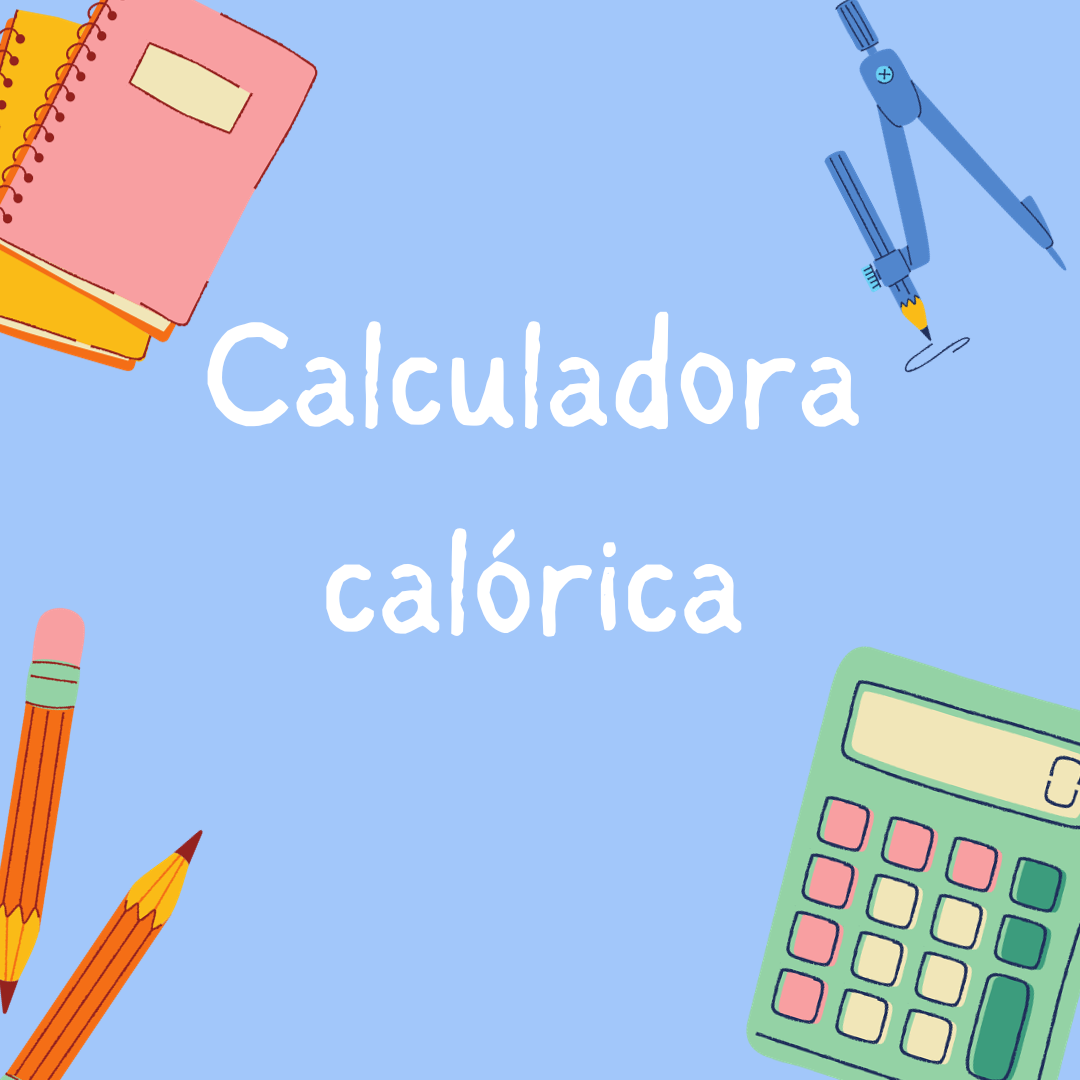
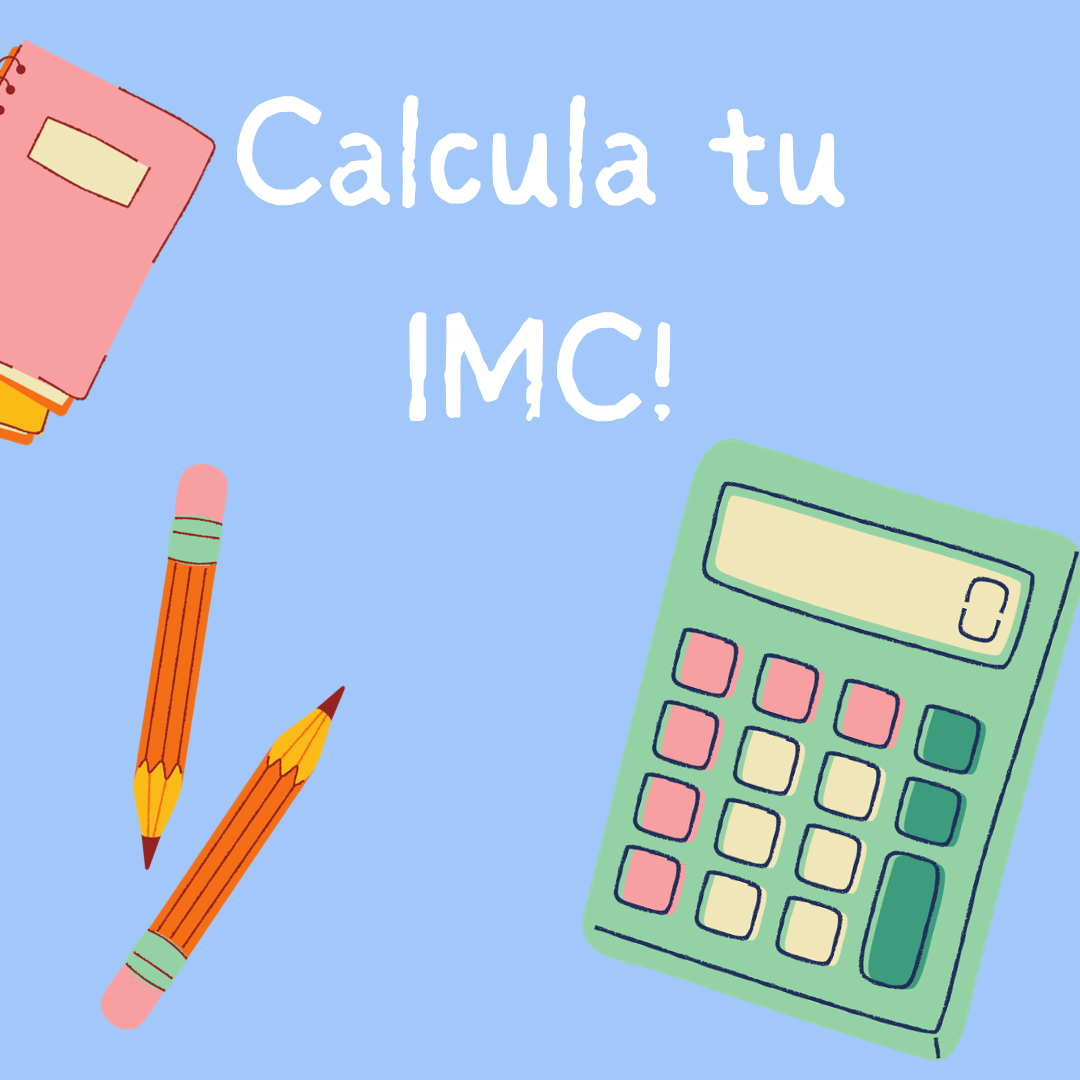
claculadora de imc

diff --git a/scriptCalc.js b/scriptCalc.js
@@ -1,0 +1,47 @@
+// script.js
+
+// script.js
+
+function calculateBMI() {
+    // Obtener los valores de los campos
+    var height = document.getElementById('height').value;
+    var weight = document.getElementById('weight').value;
+    var age = document.getElementById('age').value;
+    var gender = document.getElementById('gender').value;
+
+    // Validar que los campos no estén vacíos
+    if (height === '' || weight === '' || age === '') {
+        alert('Por favor, ingresa todos los valores.');
+        return;
+    }
+
+    // Calcular el IMC
+    var heightInMeters = height / 100;
+    var bmi = weight / (heightInMeters * heightInMeters);
+
+    // Clasificar el IMC
+   // Clasificar el IMC
+   var bmiCategory = '';
+   if (bmi < 18.5) {
+       bmiCategory = 'DEFICIENTE'; // Cambiado a 'poor' en lugar de 'Peso deficiente'
+   } else if (bmi >= 18.5 && bmi < 24.9) {
+       bmiCategory = 'NORMAL'; // Cambiado a 'normal' en lugar de 'Peso normal'
+   } else if (bmi >= 25 && bmi < 29.9) {
+       bmiCategory = 'SOBREPESO'; // Cambiado a 'overweight' en lugar de 'Sobrepeso'
+   } else {
+       bmiCategory = 'OBESIDAD'; // Cambiado a 'obese' en lugar de 'Obesidad'
+   }
+
+   // Mostrar el resultado con clase de estilo
+   var resultDiv = document.getElementById('result');
+   resultDiv.innerHTML = `<p class="result-${bmiCategory}">Tu IMC es: ${bmi.toFixed(2)}</p>`;
+   resultDiv.innerHTML += `<p class="result-${bmiCategory}">Categoría de peso: ${bmiCategory.charAt(0).toUpperCase() + bmiCategory.slice(1)}</p>`;
+   // ... (código posterior)
+    
+    // Agregar información adicional según el género
+    if (gender === 'male') {
+        resultDiv.innerHTML += `<p>Como hombre de ${age} años, puedes evaluar tu IMC según estándares específicos para hombres.</p>`;
+    } else if (gender === 'female') {
+        resultDiv.innerHTML += `<p>Como mujer de ${age} años, puedes evaluar tu IMC según estándares específicos para mujeres.</p>`;
+    }
+}

diff --git a/index.html b/index.html
@@ -211,17 +211,12 @@
         <img id="calculadora" src="imagenes/FT4.png" class="card-img-top" alt="...">
         <div class="card-body">
           <h5 class="card-title"></h5>
-          <p class="card-text"> Más detalles sobre cómo usar la calculadora y consejos adicionales.
+          <p class="card-text"> Más detalles del Índice de Masa Corporal (IMC) .
           </p>
           <p class="additional-content">
-            La calculadora de calorías es una herramienta que estima la cantidad diaria de calorías que una persona
-            necesita. Utiliza datos como peso, altura, edad y nivel de actividad para calcular la Tasa Metabólica
-            Basal (TMB) y determinar las calorías necesarias para mantener, perder o ganar peso de manera saludable.
-            Estas calculadoras son útiles para planificar dietas y objetivos de fitness. Es importante recordar que
-            las estimaciones pueden variar, y es aconsejable buscar orientación profesional para un enfoque más
-            preciso.
+            es una medida que se utiliza para evaluar la relación entre el peso y la altura de una persona. Es una herramienta comúnmente utilizada para clasificar a las personas en diferentes categorías de peso, lo que ayuda a identificar si una persona tiene un peso saludable, infrapeso, sobrepeso u obesidad.
           </p>
-          <a href="https://www.imss.gob.mx/salud-en-linea/apps-sano/calculadora-calorias" class="btn btn-success"
+          <a href="indexCalc.html" class="btn btn-success"
             target="_blank">Go Calculadora</a>
           <a href="#" class="btn btn-success" onclick="toggleAdditionalContent(event)">Ver Detalles</a>
         </div>

diff --git a/indexCalc.html b/indexCalc.html
@@ -1,0 +1,43 @@
+<!DOCTYPE html>
+<html lang="es">
+<head>
+    <meta charset="UTF-8">
+    <meta name="viewport" content="width=device-width, initial-scale=1.0">
+    <link rel="stylesheet" href="stylesCalc.css">
+    <title>Calculadora de IMC</title>
+</head>
+<body>
+
+    <div class="calculator">
+        <h1>Calculadora de IMC</h1>
+        <p>
+            El Índice de Masa Corporal (IMC) es una medida que evalúa la relación entre el peso y la altura de una persona.
+            Se utiliza para clasificar a las personas en diferentes categorías de peso, ayudando a identificar si una persona
+            tiene un peso saludable, infrapeso, sobrepeso u obesidad.
+        </p>
+        <form id="bmiForm">
+            <label for="height">Altura (cm):</label>
+            <input type="number" id="height" required>
+
+            <label for="weight">Peso (kg):</label>
+            <input type="number" id="weight" required>
+
+            <label for="age">Edad:</label>
+            <input type="number" id="age" required>
+
+            <label for="gender">Género:</label>
+            <select id="gender" required>
+                <option value="male">Hombre</option>
+                <option value="female">Mujer</option>
+            </select>
+
+            <button type="button" onclick="calculateBMI()">Calcular IMC</button>
+        </form>
+
+        <div id="result"></div>
+    </div>
+
+    <script src="scriptCalc.js"></script>
+
+</body>
+</html>

diff --git a/stylesCalc.css b/stylesCalc.css
@@ -1,0 +1,63 @@
+/* styles.css */
+
+body {
+    font-family: Arial, sans-serif;
+    margin: 0;
+    padding: 0;
+    box-sizing: border-box;
+    background-color: #f4f4f4;
+}
+
+.calculator {
+    max-width: 400px;
+    margin: 50px auto;
+    padding: 20px;
+    background-color: #fff;
+    box-shadow: 0 0 10px rgba(0, 0, 0, 0.1);
+    border-radius: 5px;
+}
+
+label {
+    display: block;
+    margin-bottom: 5px;
+}
+
+input {
+    width: 100%;
+    padding: 8px;
+    margin-bottom: 10px;
+}
+
+button {
+    background-color: #4caf50;
+    color: #fff;
+    padding: 10px;
+    border: none;
+    border-radius: 5px;
+    cursor: pointer;
+}
+
+button:hover {
+    background-color: #45a049;
+}
+
+/* styles.css */
+
+/* ... (otros estilos) */
+
+.result-DEFICIENTE {
+    color: #ffcc00; /* Amarillo para peso deficiente */
+}
+
+.result-NORMAL {
+    color: #4caf50; /* Verde para peso normal */
+}
+
+.result-SOBREPESO {
+    color: #ff3300; /* Rojo para sobrepeso */
+}
+
+/* Añadido para la categoría de 'Obesidad' */
+.result-OBESIDAD {
+    color: #ff3300; /* Puedes ajustar el color según tus preferencias */
+}
